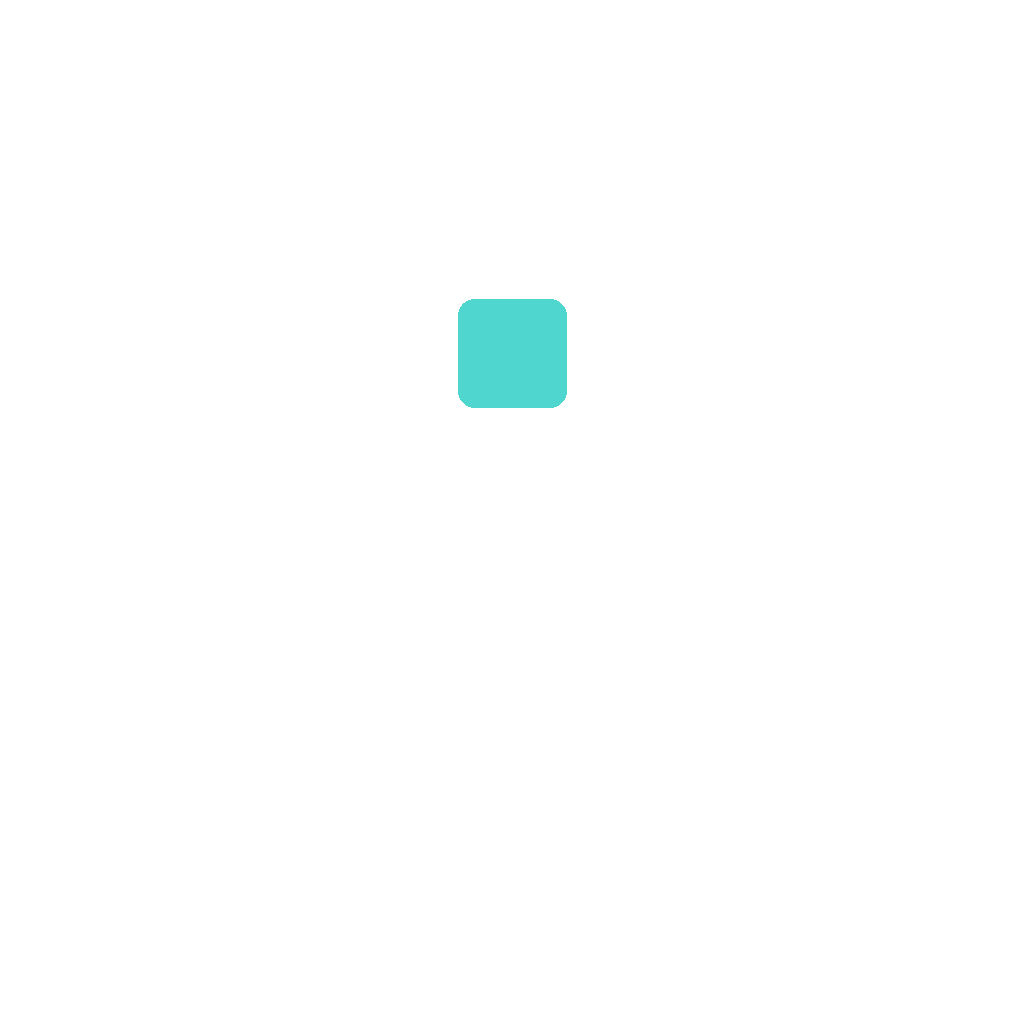
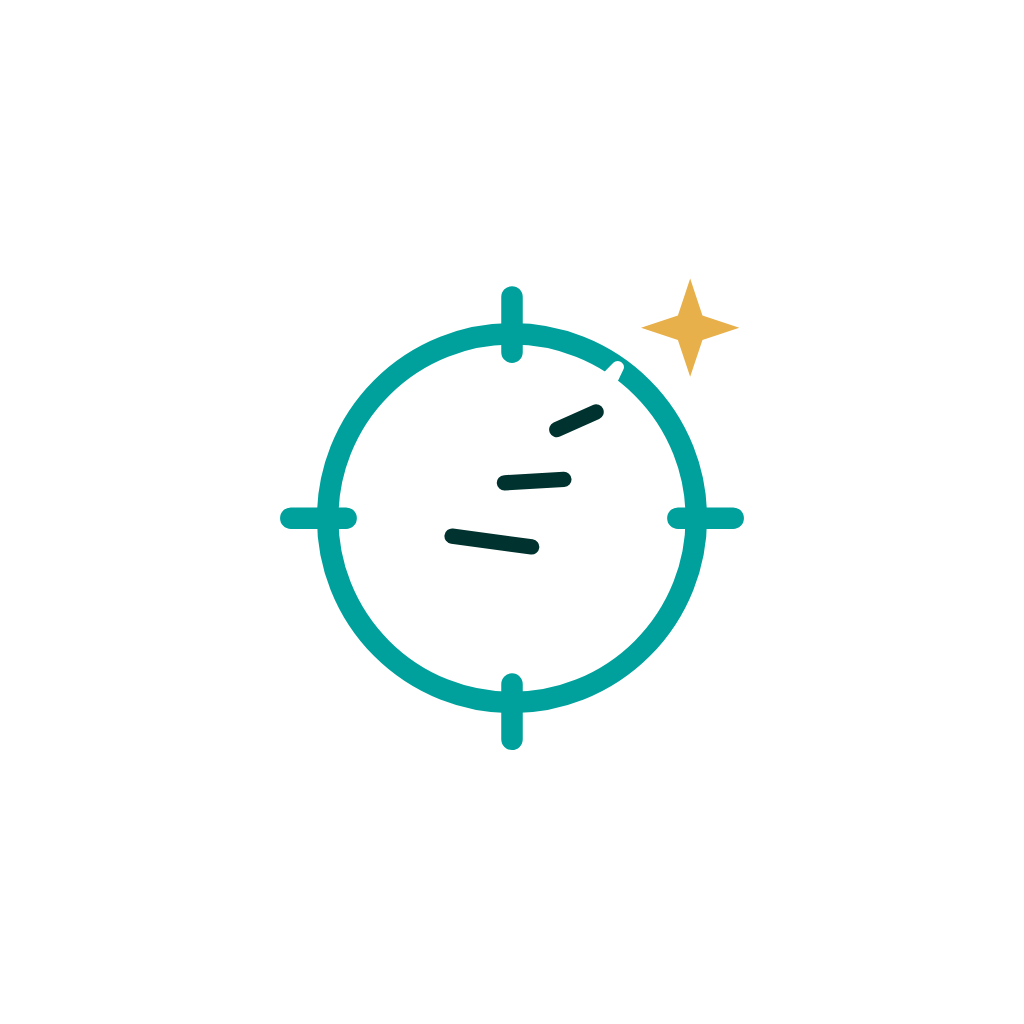
Rebrand Android app to UnicornHunter

Changed region(s): [[0.25, 0.2812, 0.75, 0.75], [0.625, 0.2812, 0.7188, 0.375]]

diff --git a/mobile/app/index.html b/mobile/app/index.html
@@ -3,7 +3,7 @@
 <head>
 <meta charset="UTF-8">
 <meta name="viewport" content="width=device-width, initial-scale=1, viewport-fit=cover">
-<title>Markets Suite</title>
+<title>UnicornHunter</title>
 <link rel="preconnect" href="https://fonts.googleapis.com">
 <link rel="preconnect" href="https://fonts.gstatic.com" crossorigin>
 <link href="https://fonts.googleapis.com/css2?family=Mulish:wght@400;600;700;800&family=IBM+Plex+Mono:wght@500;600&display=swap" rel="stylesheet">
@@ -15,7 +15,7 @@
 <!-- ═══ sign in ═══ -->
 <div class="login" id="login" hidden>
   <form class="login-card" id="loginForm" autocomplete="on">
-    <div class="login-logo"><div class="logo-mark"><i></i></div><div><h1>Markets Suite</h1><p>Finance Console</p></div></div>
+    <div class="login-logo"><div class="logo-mark"><svg viewBox="0 0 100 100" aria-hidden="true"><rect width="100" height="100" rx="23" fill="#00332F"/><circle cx="50" cy="52" r="30" fill="none" stroke="#00A19C" stroke-width="5"/><path d="M50 16V25M50 79V88M14 52H23M77 52H86" stroke="#00A19C" stroke-width="5" stroke-linecap="round"/><g transform="rotate(35 50 52)"><path d="M42 70L50 22L58 70Z" fill="#fff" stroke="#fff" stroke-width="2" stroke-linejoin="round"/><path d="M43.7 60L55.3 54M45.7 48L53.3 42M47.7 36L51.3 30" stroke="#00332F" stroke-width="2.5" stroke-linecap="round"/></g><path d="M79 13L81 19L87 21L81 23L79 29L77 23L71 21L77 19Z" fill="#E8B04A"/></svg></div><div><h1>Unicorn<span class="logo-accent">Hunter</span></h1><p>Portfolio tracker</p></div></div>
     <label class="fld"><span>Email</span><input type="email" id="lgEmail" autocomplete="username" required></label>
     <label class="fld"><span>Password</span><input type="password" id="lgPass" autocomplete="current-password" required></label>
     <button class="btn btn-p" style="width:100%;margin-top:4px;" id="lgBtn" type="submit">Sign in</button>

diff --git a/mobile/app/more.js b/mobile/app/more.js
@@ -82,10 +82,10 @@ function renderMenu(el){
       <button class="lrow" onclick="App.more.signOut()"><div class="ico" style="background:#eef2f1">${H.icon.out}</div><div class="main-col"><div class="t1">Sign out</div><div class="t2" id="whoami"></div></div></button>
       <button class="lrow" onclick="App.more.reset()"><div class="ico sell">${H.icon.trash}</div><div class="main-col"><div class="t1" style="color:var(--down)">Reset data</div><div class="t2">Delete ALL transactions and dividends</div></div></button>
     </div>
-    <div class="tiny" style="text-align:center;margin-top:20px">Markets Suite app · same data as the web version</div>`;
+    <div class="tiny" style="text-align:center;margin-top:20px">UnicornHunter app · same data as the web version</div>`;
   sb.auth.getSession().then(({data:{session}})=>{const w=document.getElementById('whoami');if(w&&session)w.textContent=session.user.email;});
 }
-App.more.signOut=async()=>{if(!confirm('Sign out of Markets Suite?'))return;await sb.auth.signOut();location.hash='';location.reload();};
+App.more.signOut=async()=>{if(!confirm('Sign out of UnicornHunter?'))return;await sb.auth.signOut();location.hash='';location.reload();};
 App.more.reset=async()=>{
   if(!confirm('This will permanently delete ALL transactions and dividends.\n\nContinue?'))return;
   const word=prompt('Final check — type RESET to confirm:');

diff --git a/mobile/app/core.js b/mobile/app/core.js
@@ -1,4 +1,4 @@
-/* ===== Markets Suite app — core: state, router, sheet, filters, helpers ===== */
+/* ===== UnicornHunter app — core: state, router, sheet, filters, helpers ===== */
 (function(){
 const App=window.App={
   screens:{},
@@ -70,7 +70,7 @@ function parseHash(){
   if(s&&App.screens[tab].segs&&App.screens[tab].segs.some(x=>x.id===s))App.state.seg[tab]=s;
 }
 function renderNav(){
-  H.$('#nav').innerHTML=`<div class="logo-mark rail-logo"><i></i></div>`+TABS.map(t=>
+  H.$('#nav').innerHTML=`<div class="logo-mark rail-logo"><svg viewBox="0 0 100 100" aria-hidden="true"><rect width="100" height="100" rx="23" fill="#00332F"/><circle cx="50" cy="52" r="30" fill="none" stroke="#00A19C" stroke-width="5"/><path d="M50 16V25M50 79V88M14 52H23M77 52H86" stroke="#00A19C" stroke-width="5" stroke-linecap="round"/><g transform="rotate(35 50 52)"><path d="M42 70L50 22L58 70Z" fill="#fff" stroke="#fff" stroke-width="2" stroke-linejoin="round"/><path d="M43.7 60L55.3 54M45.7 48L53.3 42M47.7 36L51.3 30" stroke="#00332F" stroke-width="2.5" stroke-linecap="round"/></g><path d="M79 13L81 19L87 21L81 23L79 29L77 23L71 21L77 19Z" fill="#E8B04A"/></svg></div>`+TABS.map(t=>
     `<a href="#${t.id}" class="${App.state.tab===t.id?'on':''}" aria-label="${t.label}"><span class="pill"></span>${H.icon[t.id]}<span>${t.label}</span></a>`).join('');
 }
 App.render=(resetScroll)=>{

diff --git a/mobile/app/app.css b/mobile/app/app.css
@@ -1,4 +1,4 @@
-/* ===== Markets Suite — Android app UI =====
+/* ===== UnicornHunter — Android app UI =====
    App-only interface (bottom tabs on portrait, side rail on landscape).
    The web site keeps its own pages and assets/app.css. */
 
@@ -33,8 +33,9 @@ input,select,textarea{font:inherit;color:inherit;}
   background:linear-gradient(160deg,#0a2e2a 0%,#0b4f4a 55%,#0aa79f 130%);}
 .login-card{width:100%;max-width:400px;background:#fff;border-radius:22px;padding:28px 24px;box-shadow:0 20px 60px rgba(0,0,0,.25);}
 .login-logo{display:flex;align-items:center;gap:10px;margin-bottom:22px;}
-.logo-mark{width:44px;height:44px;border-radius:12px;background:var(--dark);display:grid;place-items:center;}
-.logo-mark i{width:12px;height:12px;border-radius:3px;background:#4fd6cf;display:block;}
+.logo-mark{width:44px;height:44px;border-radius:12px;display:grid;place-items:center;flex-shrink:0;}
+.logo-mark svg{width:100%;height:100%;display:block;}
+.logo-accent{color:#00817D;}
 .login h1{font-size:22px;font-weight:800;letter-spacing:-.01em;}
 .login p{color:var(--dim);font-size:13px;}
 .login .fld{margin-bottom:14px;}

diff --git a/mobile/app-push.js b/mobile/app-push.js
@@ -1,4 +1,4 @@
-/* ===== Markets Suite — Android push registration (app build only) =====
+/* ===== UnicornHunter — Android push registration (app build only) =====
    Loaded on every page inside the Android app (see build-www.sh), never on the web.
    After sign-in it asks for notification permission, gets this device's FCM token
    and saves it to Supabase (push_tokens), so the price-alerts Edge Function can

diff --git a/mobile/app/calc.js b/mobile/app/calc.js
@@ -1,4 +1,4 @@
-/* ===== Markets Suite app — derived numbers =====
+/* ===== UnicornHunter app — derived numbers =====
    Same maths as the web pages (shares-holdings / transactions / funds / dividends / summary),
    built on shares.js (positionEngine, calcHoldings, allocateDividends, txSettle, priceCache, kpiFx). */
 (function(){

diff --git a/mobile/supabase/price-alerts/index.ts b/mobile/supabase/price-alerts/index.ts
@@ -140,7 +140,7 @@ Deno.serve(async (req) => {
 
   try {
     if (opts.test) {
-      return json(await pushAll("✅ Markets Suite alerts are on",
+      return json(await pushAll("✅ UnicornHunter alerts are on",
         `You'll be alerted when a holding moves ${DROP_PCT}% or +${RISE_PCT}% vs previous close.`));
     }
 

diff --git a/mobile/app/main.js b/mobile/app/main.js
@@ -1,4 +1,4 @@
-/* ===== Markets Suite app — start-up & sign-in ===== */
+/* ===== UnicornHunter app — start-up & sign-in ===== */
 (function(){
 const H=App.h;
 let started=false;
